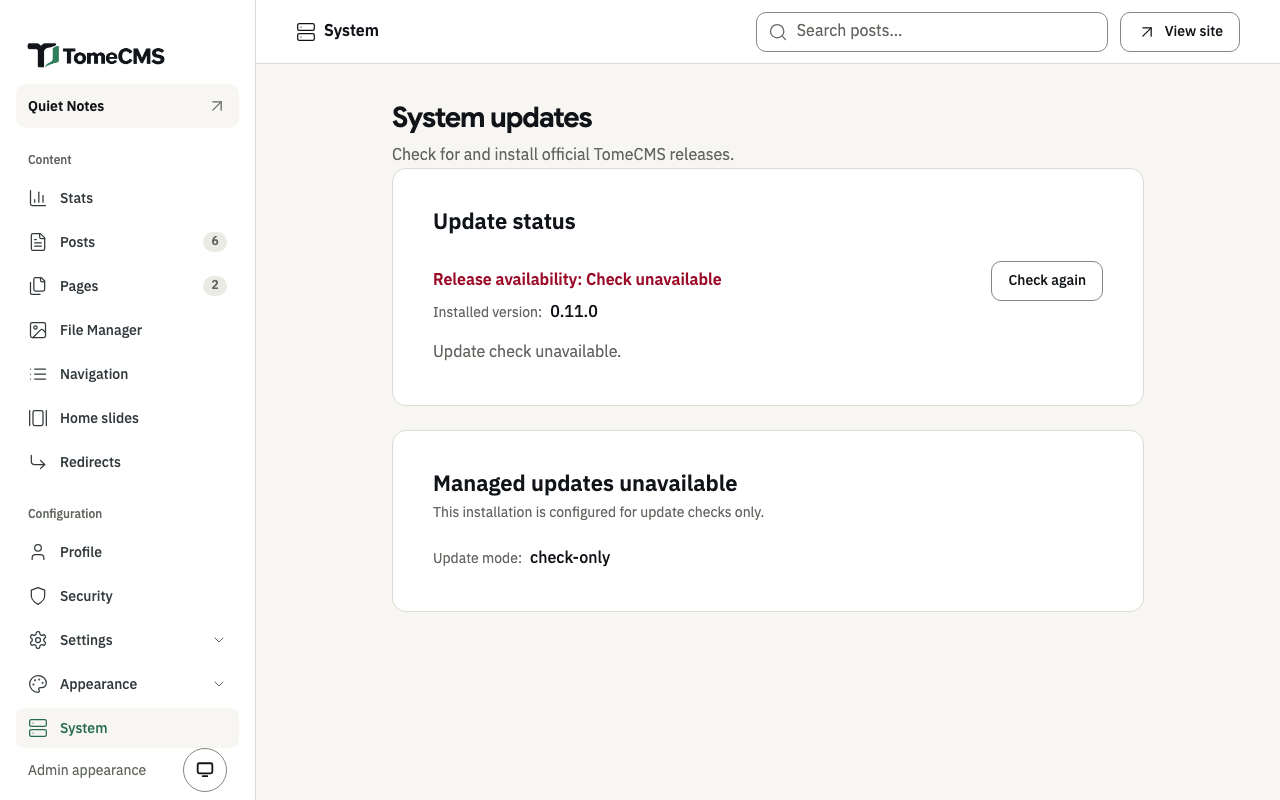
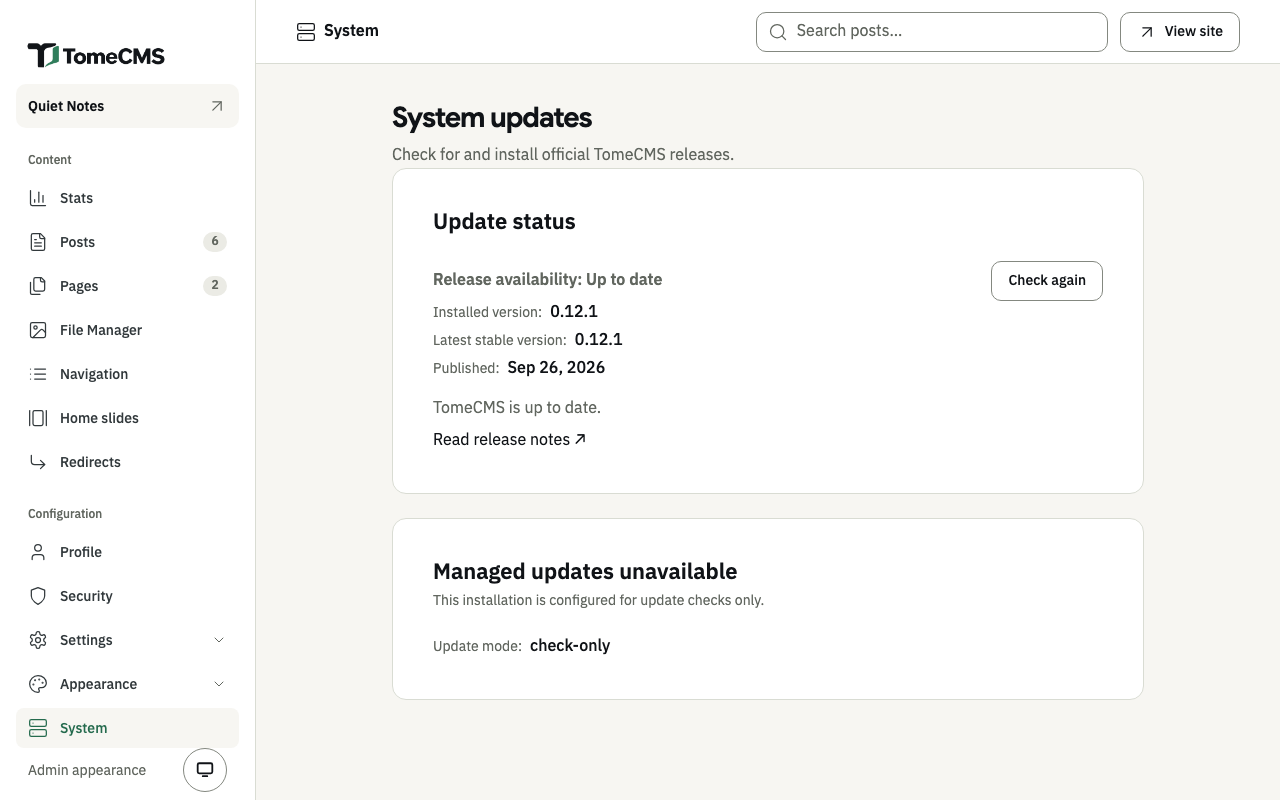
docs: the System screen as 0.12.1 shows it
Its picture showed 0.11.0 with a check that found nothing, in English
on the Thai page too. Taken again against the published 0.12.1 release,
it shows the check answered, up to date, with every line in the page's
language, and the alt text of both pages says so. The screenshot script
takes screen names, so one screen can be taken again without the rest.

diff --git a/website/scripts/screenshots.ts b/website/scripts/screenshots.ts
@@ -4,8 +4,8 @@
  * It builds a small, believable site on a disposable stack: posts and pages in both languages,
  * pictures, a menu, a slide and some counts. It signs in with a virtual passkey and saves one
  * picture per screen. Run it from the repository root when a screen changes:
- * `npm run docs:screenshots`. It uses ports 55432 and 59000, like the e2e specs, so never run
- * the two at once.
+ * `npm run docs:screenshots`, or `npm run docs:screenshots -- system` for only the screens named.
+ * It uses ports 55432 and 59000, like the e2e specs, so never run the two at once.
  */
 import { spawn, spawnSync, type ChildProcess } from 'node:child_process';
 import { randomUUID } from 'node:crypto';
@@ -48,6 +48,12 @@ const SCREENS: Array<{ name: string; path: string }> = [
   { name: 'plugins', path: '/admin/plugins' },
   { name: 'system', path: '/admin/system' },
 ];
+
+/** The screens named on the command line, or every one when none is. */
+const wanted = process.argv.slice(2);
+const unknown = wanted.filter((name) => !SCREENS.some((screen) => screen.name === name));
+if (unknown.length) throw new Error(`No such screen: ${unknown.join(', ')}`);
+const shots = wanted.length ? SCREENS.filter(({ name }) => wanted.includes(name)) : SCREENS;
 
 function docker(args: string[], timeout = 180_000) {
   const result = spawnSync('docker', [...COMPOSE, ...args], { encoding: 'utf8', timeout });
@@ -124,7 +130,7 @@ try {
       // The admin speaks the site's default language.
       await sql`update site_settings set default_locale = ${locale}`.execute(db);
       mkdirSync(new URL(`${locale}/`, OUT), { recursive: true });
-      for (const { name, path } of SCREENS) {
+      for (const { name, path } of shots) {
         await page.goto(`${origin}${path.replace(':post', postId)}`);
         await page.waitForLoadState('networkidle');
         await page.evaluate(() => document.fonts.ready);

diff --git a/website/src/content/docs/th/running/updating.md b/website/src/content/docs/th/running/updating.md
@@ -9,7 +9,7 @@ TomeCMS ตอนนี้ยังเป็นรุ่นพรีวิวก
 
 หน้าแอดมินยังติดตั้งอัปเดตเองไม่ได้ ที่เมนู "ระบบ" จะแสดงเวอร์ชันของคุณไว้ข้าง "เวอร์ชันที่ติดตั้งอยู่:" และตรวจกับ repository ทางการบน GitHub ได้ว่ามีรุ่น stable ที่ใหม่กว่าหรือยัง ในการติดตั้งตอนนี้ หน้านั้นจะขึ้นว่า "ใช้การอัปเดตแบบจัดการให้ไม่ได้" และ "โหมดการอัปเดต:" เป็น `check-only` การตรวจจะเทียบเวอร์ชันของคุณกับเวอร์ชันล่าสุดที่ออกเป็น GitHub release โดย 0.12.1 เป็นเวอร์ชันแรก เว็บที่ติดตั้งจาก 0.12.0 จึงจะเห็นว่ามี 0.12.1 ให้อัปเดต
 
-![หน้า "ระบบ" หัวข้อ "อัปเดตระบบ" มีการ์ด "สถานะการอัปเดต" ที่มี "สถานะเวอร์ชัน: ตรวจสอบไม่ได้", "เวอร์ชันที่ติดตั้งอยู่: 0.11.0" และ "Update check unavailable." อยู่ข้างปุ่ม "ตรวจสอบอีกครั้ง" ด้านล่างเป็นการ์ด "ใช้การอัปเดตแบบจัดการให้ไม่ได้" ที่บอกว่า "This installation is configured for update checks only." และ "โหมดการอัปเดต:" เป็น "check-only"](../../../../assets/screenshots/th/system.png)
+![หน้า "ระบบ" หัวข้อ "อัปเดตระบบ" มีการ์ด "สถานะการอัปเดต" ที่มี "สถานะเวอร์ชัน: เป็นเวอร์ชันล่าสุดแล้ว", "เวอร์ชันที่ติดตั้งอยู่: 0.12.1", "เวอร์ชันเสถียรล่าสุด: 0.12.1", "เผยแพร่เมื่อ: 26 ก.ย. 2569" และ "TomeCMS เป็นเวอร์ชันล่าสุดแล้ว" มีลิงก์ "อ่านบันทึกการเปลี่ยนแปลง" และปุ่ม "ตรวจสอบอีกครั้ง" ด้านล่างเป็นการ์ด "ใช้การอัปเดตแบบจัดการให้ไม่ได้" ที่บอกว่า "การติดตั้งนี้ตั้งค่าให้ตรวจสอบเวอร์ชันใหม่ได้อย่างเดียว" และ "โหมดการอัปเดต:" เป็น "check-only"](../../../../assets/screenshots/th/system.png)
 
 ## อัปเกรดเว็บที่เป็น 0.x
 

diff --git a/website/src/content/docs/running/updating.md b/website/src/content/docs/running/updating.md
@@ -9,7 +9,7 @@ TomeCMS is still a pre-1.0 preview. You upgrade a 0.x install in place, from a n
 
 The admin cannot install an update yet. Under "System" it shows your version next to "Installed version:" and can check the official repository on GitHub for a newer stable release. On today's install that screen says "Managed updates unavailable", and "Update mode:" reads `check-only`. The check compares your version with the latest version published as a GitHub release. 0.12.1 is the first, so an install from 0.12.0 reads "TomeCMS 0.12.1 is available." there.
 
-![The System screen. "System updates" shows an "Update status" card with "Release availability: Check unavailable", "Installed version: 0.11.0" and "Update check unavailable." next to a "Check again" button. Below it, a "Managed updates unavailable" card says "This installation is configured for update checks only.", with "Update mode:" reading "check-only".](../../../assets/screenshots/en/system.png)
+![The System screen. "System updates" shows an "Update status" card with "Release availability: Up to date", "Installed version: 0.12.1", "Latest stable version: 0.12.1", "Published: Sep 26, 2026" and "TomeCMS is up to date.", a "Read release notes" link, and a "Check again" button. Below it, a "Managed updates unavailable" card says "This installation is configured for update checks only.", with "Update mode:" reading "check-only".](../../../assets/screenshots/en/system.png)
 
 ## Upgrading a 0.x install
 
